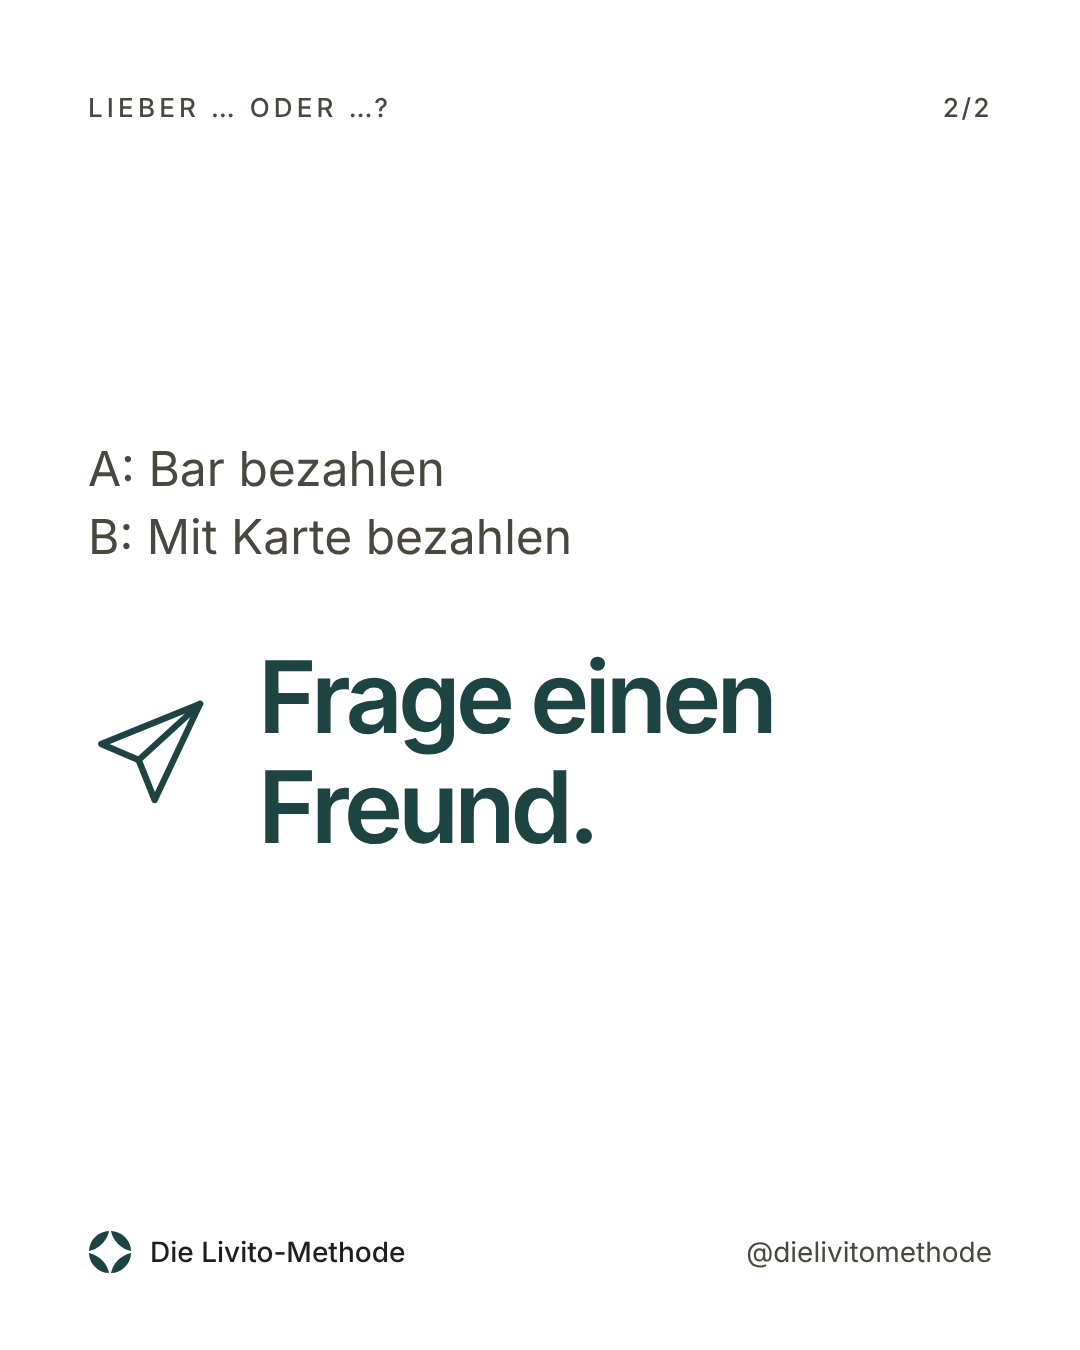
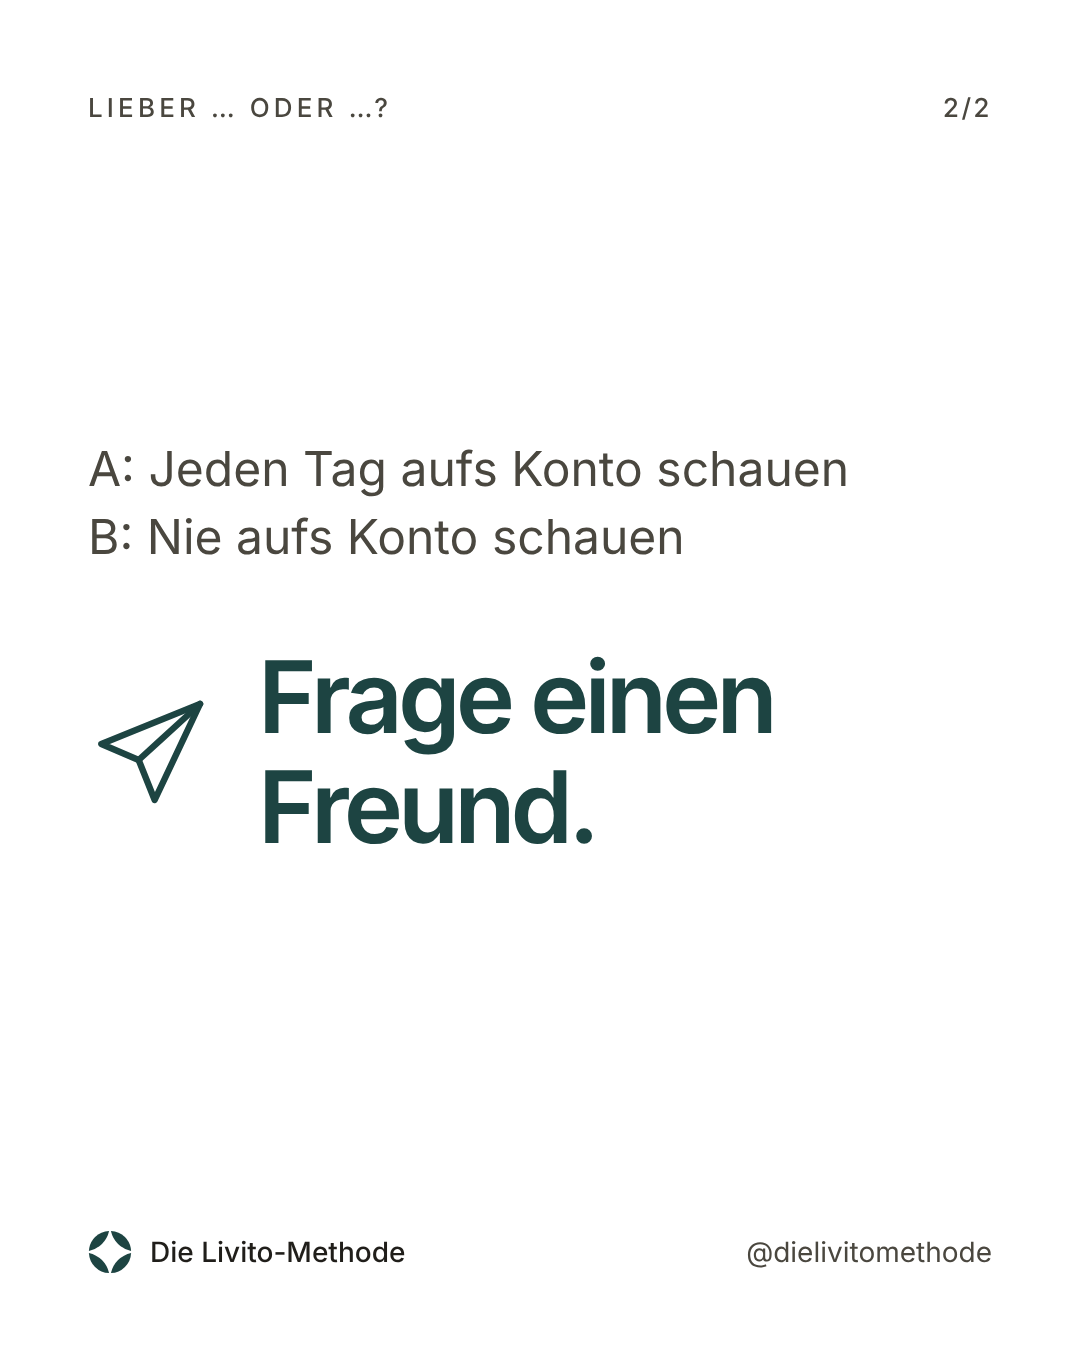
Neue Beispielinhalte mit stärkeren Hooks
Claude-Session: https://claude.ai/code/session_01MDUNgoVw8K3wtGB1G4TM1S

Changed region(s): [[0.1222, 0.3111, 0.7944, 0.4356]]

diff --git a/system/slides.html b/system/slides.html
@@ -71,6 +71,7 @@
 .opt{display:flex;align-items:center;gap:40px;font-family:'Inter Tight';font-weight:600;font-size:84px;line-height:1.1;letter-spacing:-.01em}
 .opt .ab{flex:none;width:112px;height:112px;border:3px solid var(--nebel);display:flex;align-items:center;justify-content:center;font-size:56px;color:var(--nebel)}
 .oder{font-size:44px;color:var(--nebel);margin:48px 0 48px 152px;letter-spacing:.08em}
+.hookbig{font-family:'Inter Tight';font-weight:600;font-size:72px;line-height:1.12;color:var(--nebel);margin:36px 0 0;letter-spacing:-.01em}
 </style>
 </head>
 <body>
@@ -145,56 +146,53 @@ const C = {
   s=>`${kopf(s.label,3,s.n)}<div class="mid"><p class="statement">Erst das eine. Dann das nächste.</p><p class="sub">In vier Schritten zur finanziellen Gelassenheit.</p></div>${foot(true)}`,
  ]},
 };
-// ---- Serie "Geldwörter": Folie 1 das Wort, Folie 2 Herkunft, Folie 3 Pointe und Quellen.
+// ---- Serie "Geldwörter": Folie 1 Wort und Haken, Folie 2 Auflösung, Folie 3 Pointe und Quellen.
 const wort = (w, hook, h2, b2, h3, b3, quelle) => ({ label:'Geldwörter', n:3, slides:[
-  s=>`${kopf(s.label,1,s.n)}<h1 class="title wort">${w}</h1><p class="sub hook">${hook}</p><div class="grow"></div>${band()}${foot(true,'Wischen →')}`,
+  s=>`${kopf(s.label,1,s.n)}<h1 class="title wort">${w}</h1><p class="hookbig">${hook}</p><div class="grow"></div>${band()}${foot(true,'Wischen →')}`,
   s=>`${kopf(s.label,2,s.n)}<div class="mid"><h2 class="h">${h2}</h2>${b2.map(t=>`<p class="body">${t}</p>`).join('')}</div>${foot(false)}`,
   s=>`${kopf(s.label,3,s.n)}<div class="mid"><h2 class="h">${h3}</h2>${b3.map(t=>`<p class="body">${t}</p>`).join('')}<p class="quelle">Quellen: ${quelle}</p></div>${foot(false,'Speichern')}`,
 ]});
-// ---- Serie "Lieber … oder …?": Folie 1 die Wahl, Folie 2 Aufforderung.
-const lieber = (a, b, wem) => ({ label:'Lieber … oder …?', n:2, slides:[
-  s=>`${kopf(s.label,1,s.n)}<div class="wahl"><div class="opt"><span class="ab">A</span><span>${a}</span></div><p class="oder">oder</p><div class="opt"><span class="ab">B</span><span>${b}</span></div></div><div class="grow"></div>${band()}${foot(true,'A oder B? ↓')}`,
-  s=>`${kopf(s.label,2,s.n)}<div class="mid"><p class="nochmal">A: ${a}<br>B: ${b}</p><div class="weiter">${ICON.senden}<p class="statement">Frage ${wem}.</p></div></div>${foot(false)}`,
-]});
-// ---- Serie "Warum wir so ticken": fünf Folien, Effekt, Studie, Alltag, ruhiger Schluss.
-const ticken = (hook, name, b2, b3, quelle, b4, schluss, sub) => ({ label:'Warum wir so ticken', n:5, slides:[
+// ---- Serie "Lieber … oder …?": Folie 1 die Wahl, optional eine Auflösung, zuletzt Weiterleiten.
+const lieber = (a, b, wem, aufl) => { const n = aufl ? 3 : 2; const sl = [
+  s=>`${kopf(s.label,1,s.n)}<div class="wahl"><div class="opt"><span class="ab">A</span><span>${a}</span></div><p class="oder">oder</p><div class="opt"><span class="ab">B</span><span>${b}</span></div></div><div class="grow"></div>${band()}${foot(true, aufl ? 'Erst wählen, dann wischen →' : 'A oder B? ↓')}`];
+  if (aufl) sl.push(s=>`${kopf(s.label,2,s.n)}<div class="mid"><h2 class="h">${aufl[0]}</h2>${aufl[1].map(t=>`<p class="body">${t}</p>`).join('')}</div>${foot(false)}`);
+  sl.push(s=>`${kopf(s.label,n,s.n)}<div class="mid"><p class="nochmal">A: ${a}<br>B: ${b}</p><div class="weiter">${ICON.senden}<p class="statement">Frage ${wem}.</p></div></div>${foot(false)}`);
+  return { label:'Lieber … oder …?', n, slides:sl }; };
+// ---- Serie "Warum wir so ticken": Haken, frei viele Inhaltsfolien [Überschrift, [Absätze], Quelle?], ruhiger Schluss.
+const ticken = (hook, mitte, schluss, sub) => { const n = mitte.length + 2; return { label:'Warum wir so ticken', n, slides:[
   s=>`${kopf(s.label,1,s.n)}<h1 class="title m">${hook}</h1><div class="grow"></div>${band()}${foot(true,'Wischen →')}`,
-  s=>`${kopf(s.label,2,s.n)}<div class="mid"><h2 class="h">${name}</h2>${b2.map(t=>`<p class="body">${t}</p>`).join('')}</div>${foot(false)}`,
-  s=>`${kopf(s.label,3,s.n)}<div class="mid"><h2 class="h">Woher wir das wissen</h2>${b3.map(t=>`<p class="body">${t}</p>`).join('')}<p class="quelle">${quelle}</p></div>${foot(false)}`,
-  s=>`${kopf(s.label,4,s.n)}<div class="mid"><h2 class="h">Im Alltag</h2>${b4.map(t=>`<p class="body">${t}</p>`).join('')}</div>${foot(false)}`,
-  s=>`${kopf(s.label,5,s.n)}<div class="mid"><p class="statement">${schluss}</p><p class="sub">${sub}</p></div>${foot(true,'Speichern')}`,
-]});
+  ...mitte.map((m,i)=> s=>`${kopf(s.label,i+2,s.n)}<div class="mid"><h2 class="h">${m[0]}</h2>${m[1].map(t=>`<p class="body">${t}</p>`).join('')}${m[2]?`<p class="quelle">${m[2]}</p>`:''}</div>${foot(false)}`),
+  s=>`${kopf(s.label,n,s.n)}<div class="mid"><p class="statement">${schluss}</p><p class="sub">${sub}</p></div>${foot(true,'Speichern')}`,
+]}; };
 Object.assign(C, {
- wort1: wort('Pleite', 'Das Wort bedeutete ursprünglich: Flucht.', 'Woher es kommt',
-   ['Hebräisch pəlēṭā heißt Flucht, Rettung. Im Jiddischen wurde daraus pleite.', 'Über die Gaunersprache Rotwelsch kam das Wort im 19. Jahrhundert ins Deutsche. Gemeint war die Flucht vor den Gläubigern.'],
-   'Und der Pleitegeier?', ['Ist gar kein Vogel.', 'Aus dem Pleitegeher wurde in jiddischer Aussprache der Pleitegeier.'], 'Duden; Wahrig Herkunftswörterbuch'),
- wort2: wort('Bankrott', 'Wörtlich: eine zerbrochene Bank.', 'Woher es kommt',
-   ['Um 1500 aus dem Italienischen: banca rotta, der zerbrochene Tisch.', 'Auf solchen Tischen legten Geldwechsler ihre Münzen aus.'],
-   'Wurde der Tisch wirklich zerschlagen?', ['Eine schöne Geschichte, aber nirgends belegt. Das Bild war wohl von Anfang an bildlich gemeint.', 'Übrigens: Die Bank zum Sitzen und die Bank fürs Konto sind dasselbe Wort.'], 'Duden; Online Etymology Dictionary'),
- wort3: wort('Moos', 'Warum Geld nach Wald klingt.', 'Woher es kommt',
-   ['Hebräisch ma’ot heißt kleine Münzen.', 'Über das Jiddische kam das Wort in die Gaunersprache Rotwelsch und von dort in unsere Umgangssprache.'],
-   'Ohne Moos nix los', ['Mit dem Grün im Wald hat das Moos im Portemonnaie nichts zu tun.', 'Es ist eines von vielen Geldwörtern, die aus dem Hebräischen kommen.'], 'Jüdische Allgemeine; SRF'),
- lieber1: lieber('100 Euro heute', '110 Euro in einem Jahr', 'einen Freund'),
- lieber2: lieber('Ein gemeinsames Konto', 'Getrennte Kassen', 'eine Freundin'),
- lieber3: lieber('Bar bezahlen', 'Mit Karte bezahlen', 'einen Freund'),
- ticken1: ticken('Warum 50 Euro verloren schlimmer sind als 50 Euro geschenkt.', 'Verlustaversion',
-   ['Verluste fühlen sich stärker an als gleich große Gewinne.', 'Studien zeigen: ungefähr doppelt so stark.'],
-   ['Daniel Kahneman und Amos Tversky haben den Effekt 1979 beschrieben.', 'Kahneman bekam für diese Forschung 2002 den Wirtschaftsnobelpreis.'],
-   'Kahneman und Tversky, Econometrica, 1979. Tversky und Kahneman, Journal of Risk and Uncertainty, 1992.',
-   ['Darum ärgert eine unerwartete Rechnung länger, als eine gleich hohe Gutschrift freut.', 'Und darum fällt es schwer, sich von Dingen zu trennen, die man kaum noch braucht.'],
-   'Das ist kein Fehler. Das ist menschlich.', 'Wer es weiß, entscheidet ruhiger.'),
- ticken2: ticken('Warum sich die Steuererstattung wie geschenkt anfühlt.', 'Mentale Konten',
-   ['Wir sortieren Geld im Kopf in Töpfe: Miete, Urlaub, Geschenktes.', 'Und wir behandeln es unterschiedlich, je nachdem, woher es kommt.'],
-   ['Der Ökonom Richard Thaler hat das beschrieben.', '2017 bekam er unter anderem dafür den Wirtschaftsnobelpreis.'],
-   'Thaler, Mental Accounting Matters, Journal of Behavioral Decision Making, 1999.',
-   ['Die Steuererstattung ist dein eigenes Geld, das du vorher zu viel gezahlt hast.', 'Trotzdem gibt man es leichter aus als das Gehalt.'],
-   'Töpfe im Kopf sind nicht schlecht.', 'Man kann sie auch bewusst nutzen. Einer für Unerwartetes, einer für später.'),
- ticken3: ticken('Warum „jetzt“ so viel lauter ist als „später“.', 'Gegenwartsverzerrung',
-   ['Was sofort kommt, wiegt für uns überproportional schwer.', 'Typisches Muster: lieber 100 Euro heute als 110 Euro morgen. Aber lieber 110 Euro in 31 Tagen als 100 Euro in 30.'],
-   ['Der Psychologe George Ainslie hat das Muster in den 1970er-Jahren untersucht.', 'Der Ökonom David Laibson hat es 1997 in ein bis heute genutztes Modell gefasst.'],
-   'Laibson, Golden Eggs and Hyperbolic Discounting, Quarterly Journal of Economics, 1997.',
-   ['Darum beginnt das Sparen so oft „ab nächstem Monat“.', 'Und wenn der nächste Monat da ist, fühlt er sich wieder wie jetzt an.'],
-   'Gegen das Jetzt hilft kein guter Vorsatz.', 'Es hilft, wenn das Später von allein läuft. Ein Dauerauftrag entscheidet nicht jeden Monat neu.'),
+ wort1: wort('Dollar', 'Das Wort ist deutsch.', 'Aus Taler wurde Dollar',
+   ['Ab 1520 wurden im böhmischen Joachimsthal Silbermünzen geprägt: die Joachimsthaler. Kurz: Taler.', 'Der Taler wurde in halb Europa bezahlt. Im Niederdeutschen hieß er Daler, im Englischen dann Dollar.'],
+   'Sag es mal laut', ['Taler. Daler. Dollar.', '1784 schlug Thomas Jefferson vor, die Währung der USA so zu nennen.'], 'Deutsche Bundesbank; Wahrig Herkunftswörterbuch'),
+ wort2: wort('Kredit', 'heißt eigentlich: Ich glaube dir.', 'Woher es kommt',
+   ['Vom lateinischen credere: glauben, vertrauen.', 'Wer einen Kredit gibt, glaubt daran, dass das Geld zurückkommt.'],
+   'Und der Gläubiger?', ['Steckt auch im Deutschen schon im Wort: Es ist der, der glaubt.', 'Geld verleihen war von Anfang an eine Frage des Vertrauens.'], 'Wahrig Herkunftswörterbuch; Online Etymology Dictionary'),
+ wort3: wort('Groschen', 'Bei dir ist er bestimmt schon mal gefallen.', 'Wohin eigentlich?',
+   ['In den Automaten. Der Groschen war das Zehnpfennigstück.', 'Kaugummi, Briefmarken, Süßes: Viele Automaten gaben erst etwas heraus, wenn die Münze gefallen war.'],
+   'Und der Name?', ['Kommt vom lateinischen grossus: dick.', 'Der Groschen war die dicke Silbermünze, im Gegensatz zum dünnen Denar.'], 'BRF; Online Etymology Dictionary'),
+ lieber1: lieber('1 Million Euro sofort', '1 Cent, der sich 30 Tage lang jeden Tag verdoppelt', 'einen Freund',
+   ['Die Auflösung', ['Nach 20 Tagen ist der Cent gerade einmal 5.242,88 Euro wert.', 'Am 30. Tag sind es 5.368.709,12 Euro.', 'Echte Zinsen wachsen viel langsamer. Das Prinzip ist dasselbe: lange unscheinbar, dann gewaltig.']]),
+ lieber2: lieber('Mehr Gehalt', 'Mehr Freizeit', 'eine Freundin'),
+ lieber3: lieber('Jeden Tag aufs Konto schauen', 'Nie aufs Konto schauen', 'einen Freund'),
+ ticken1: ticken('Würdest du diese Wette annehmen?', [
+   ['Die Wette', ['Eine Münze wird geworfen.', 'Kopf: Du bekommst 150 Euro. Zahl: Du zahlst 100 Euro.']],
+   ['Die meisten lehnen ab.', ['Obwohl die Wette für sie günstig ist. Viele steigen erst ein, wenn sie 200 Euro gewinnen können.', 'Ein Verlust wiegt für uns ungefähr doppelt so schwer wie ein gleich hoher Gewinn.'], 'Daniel Kahneman, Schnelles Denken, langsames Denken, 2011. Kahneman und Tversky, Econometrica, 1979.'],
+   ['Im Alltag', ['Darum ärgert eine unerwartete Rechnung länger, als eine gleich hohe Gutschrift freut.']],
+ ], 'Das ist kein Fehler. Das ist menschlich.', 'Wer es weiß, entscheidet ruhiger.'),
+ ticken2: ticken('Du hast deine Theaterkarte verloren. Kaufst du eine neue?', [
+   ['Zwei Gruppen, eine Frage', ['Gruppe 1 hat ihre Karte für 10 Dollar verloren.', 'Gruppe 2 hat einen 10-Dollar-Schein verloren und muss die Karte noch kaufen.']],
+   ['Das Ergebnis', ['Gruppe 2: 88 Prozent kaufen trotzdem eine Karte.', 'Gruppe 1: Nur 46 Prozent kaufen eine neue.'], 'Tversky und Kahneman, Science, 1981.'],
+   ['Warum?', ['Der Verlust ist gleich. Aber die verlorene Karte landet im Kopf auf dem Konto „Theater“. Dann kostet der Abend plötzlich 20.', 'Der verlorene Schein landet woanders.']],
+ ], 'Geld ist Geld. Für den Kopf nicht.', 'Wer seine inneren Töpfe kennt, kann sie bewusst nutzen.'),
+ ticken3: ticken('Dein Gehirn hält dein zukünftiges Ich für einen Fremden.', [
+   ['Das Experiment', ['Forschende in Stanford ließen Menschen im Hirnscanner nachdenken: über sich selbst, über sich in zehn Jahren und über andere Menschen.']],
+   ['Das Ergebnis', ['Das Ich in zehn Jahren sah im Gehirn eher aus wie eine andere Person.', 'Wer den größten Abstand zeigte, wartete im Test am seltensten auf mehr Geld später.'], 'Ersner-Hershfield, Wimmer und Knutson, Social Cognitive and Affective Neuroscience, 2009.'],
+   ['Im Alltag', ['Sparen fürs Alter fühlt sich darum ein bisschen an wie Geld verschenken. An jemanden, den man nicht kennt.']],
+ ], 'Lern dein zukünftiges Ich kennen.', 'Was wünscht es sich von dir? Die Antwort macht Sparen leichter.'),
 });
 FRAGEN.forEach((q,i)=>{ C['frage'+String(i+1).padStart(2,'0')] = frage(q, q.length>30?'m':'', i%2?'eine Freundin':'einen Freund'); });
 const dark = { notgroschen:[0,6], schneeball:[0,5], satz:[0,2], methode:[0,5], schritte:[0,5], fuerwen:[0,4], satz2:[0,2] };
